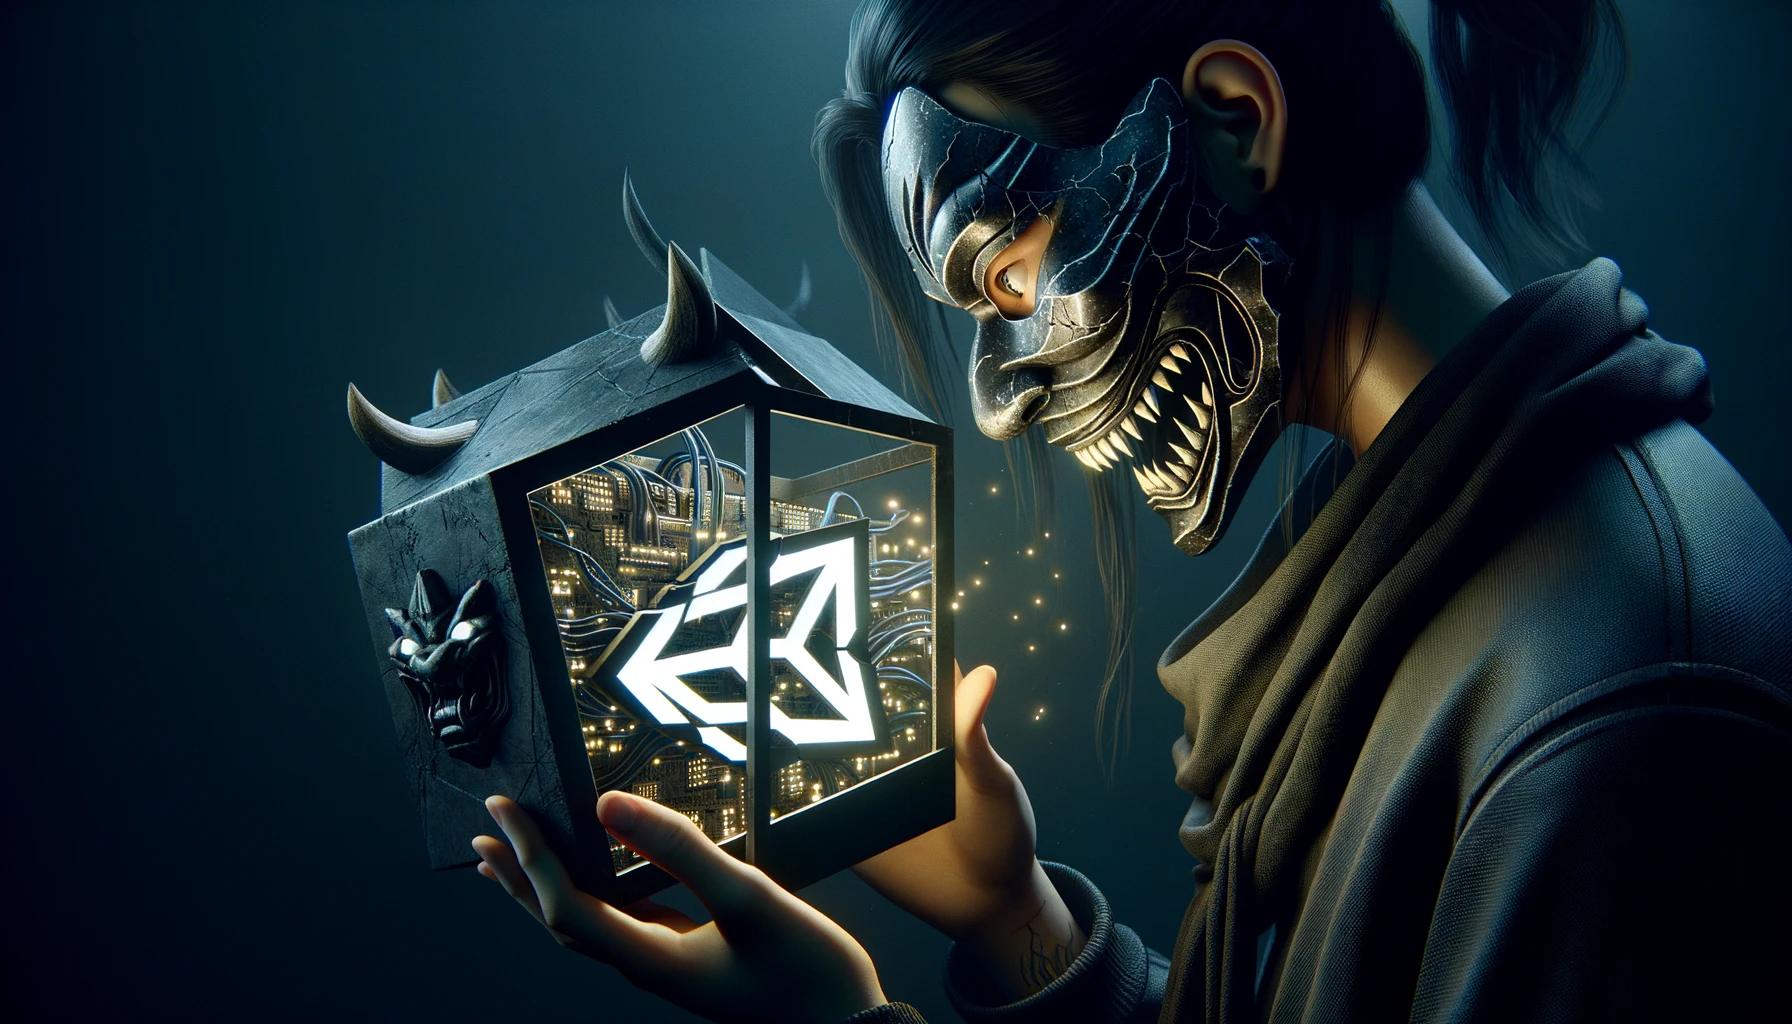
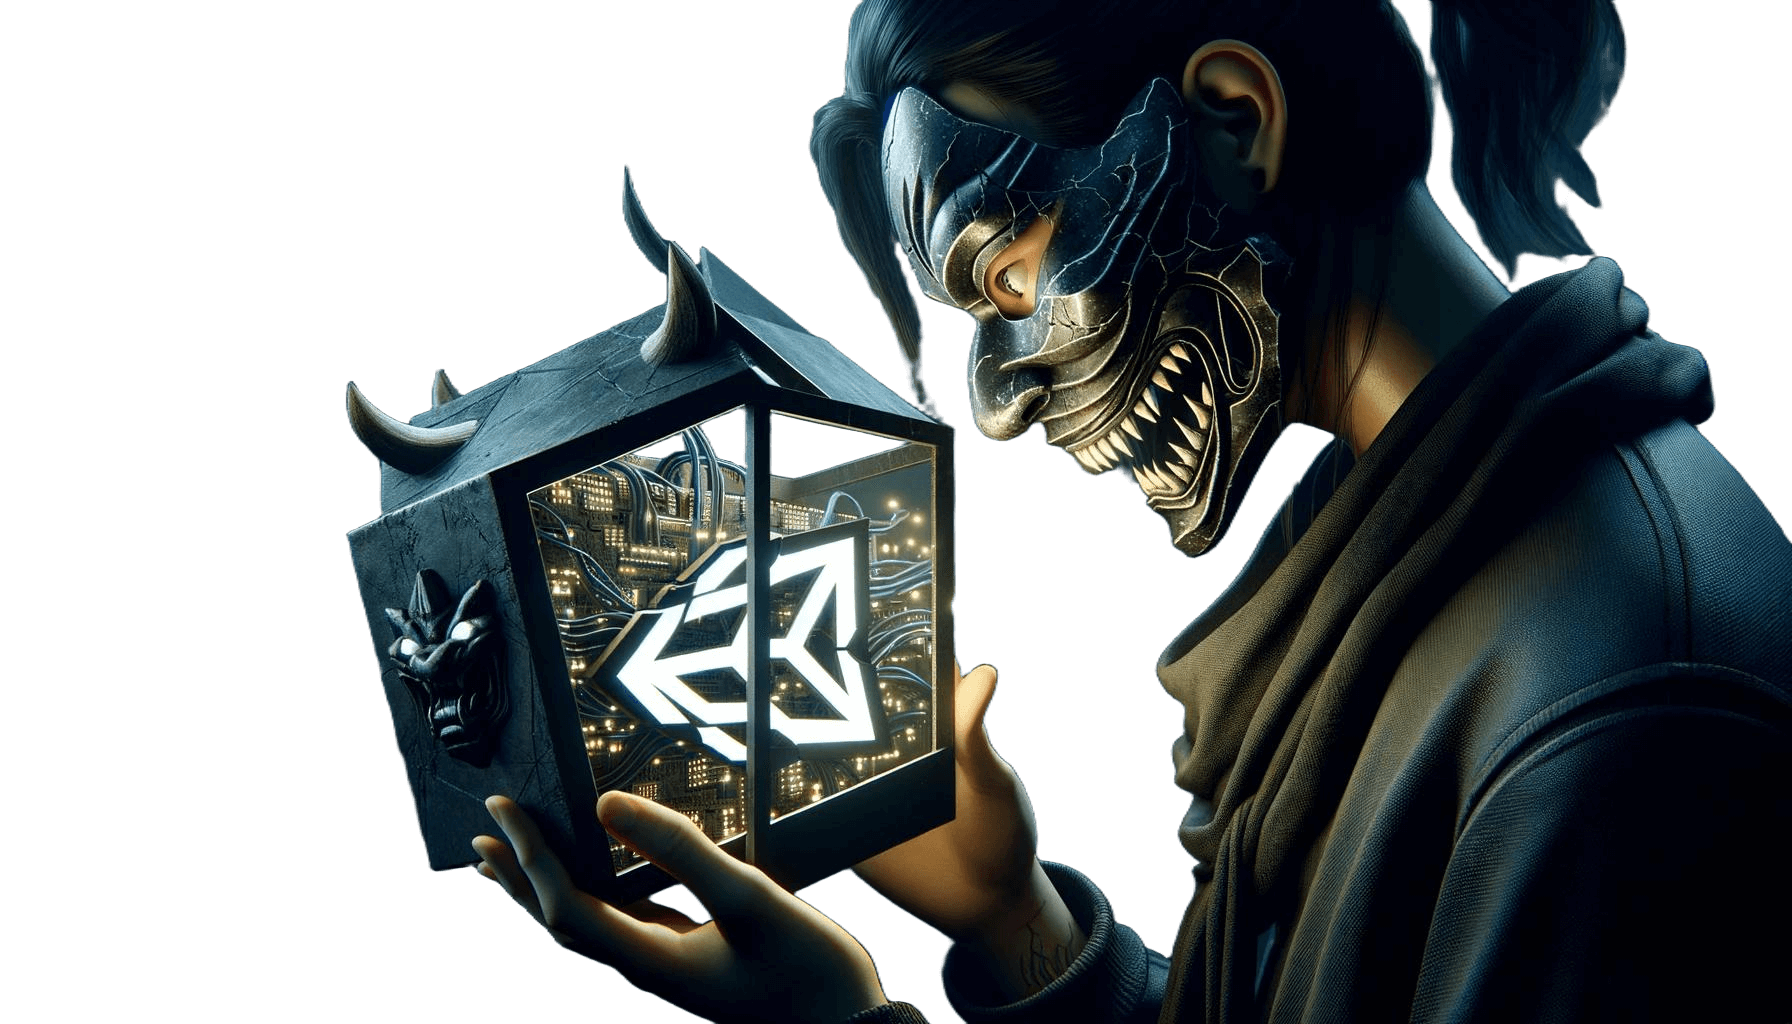
update headers and footers

diff --git a/_tabs/about.md b/_tabs/about.md
@@ -6,27 +6,23 @@ order: 4
 
 ## Whoami
 
-I am a Japanese man who loves to play around computers.
-Not actively coding everyday, just only when I feel like I want.
+I'm pseuxide a web engineer and hobbyist reverse engineer working at Omotesando, Tokyo.
 
-I work as a web engineer at day time, and do low-key reverse engineering at midnight every now and then.
+I began exploring reverse engineering in 2020. Although my journey has been intermittent, I continue to delve into it whenever I can.
+
+I like reversing programs but still the level where I just starting to get the hang of it.
 
 ## About this blog
-
-As a hobbyist engineer, having my own blog allows me to document each step of my reverse engineering journey without losing my way.
 
 Here's a list of topics you might encounter in this blog:
 
 ```md
 Reverse engineering
-Game hacking
-Web development
-Windows user mode low level programming
+Deobfuscation and devirtualization
 Windows kernel driver development
 Hypervisor development
+Web development
 ```
 {: file='Things I find attractive'}
 
 Some of these are subjects I'm actively diving into, while others are still on my to-do list.
-
-I used to take notes on my github repo, gist or Notion but it's clear to store them as a blog form.

diff --git a/_posts/2024-06-10-defeating_a_heavily_obfuscated_keygenme_binary.md b/_posts/2024-06-10-defeating_a_heavily_obfuscated_keygenme_binary.md
@@ -5,7 +5,7 @@ categories: [low level]
 tags: [asm, reverse-engineering]     # TAG names should always be lowercase
 img_path: /assets/img/posts/defeating_a_heavily_obfuscated_keygenme_binary/
 image:
-  path: header.webp
+  path: header.png
   lqip: /assets/img/posts/defeating_a_heavily_obfuscated_keygenme_binary/header.svg
   alt: header
 ---
